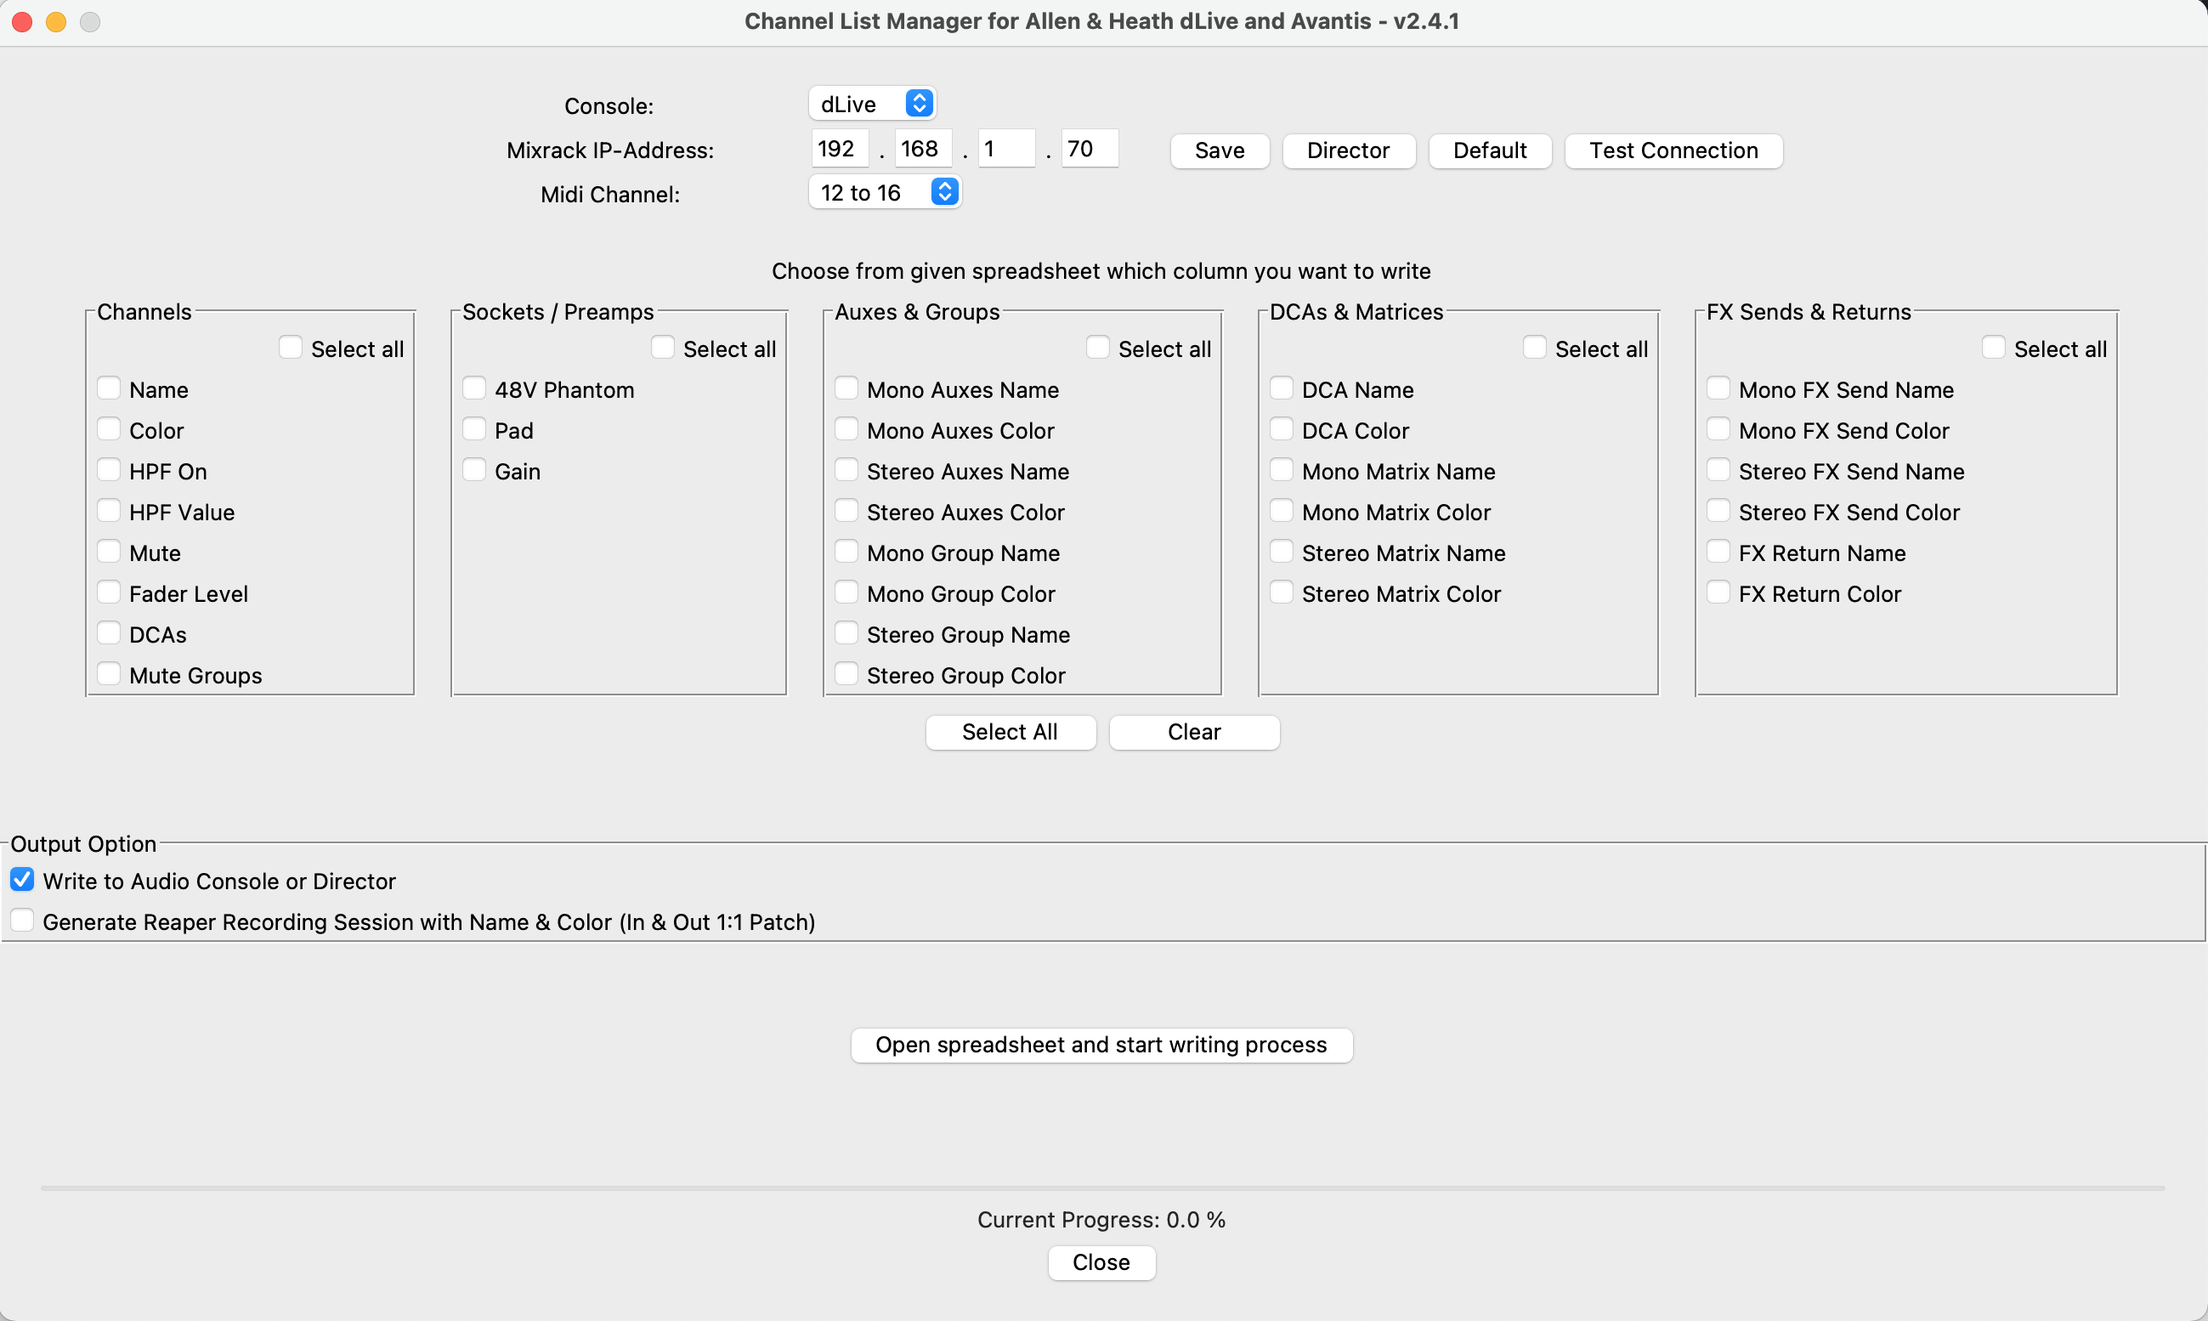
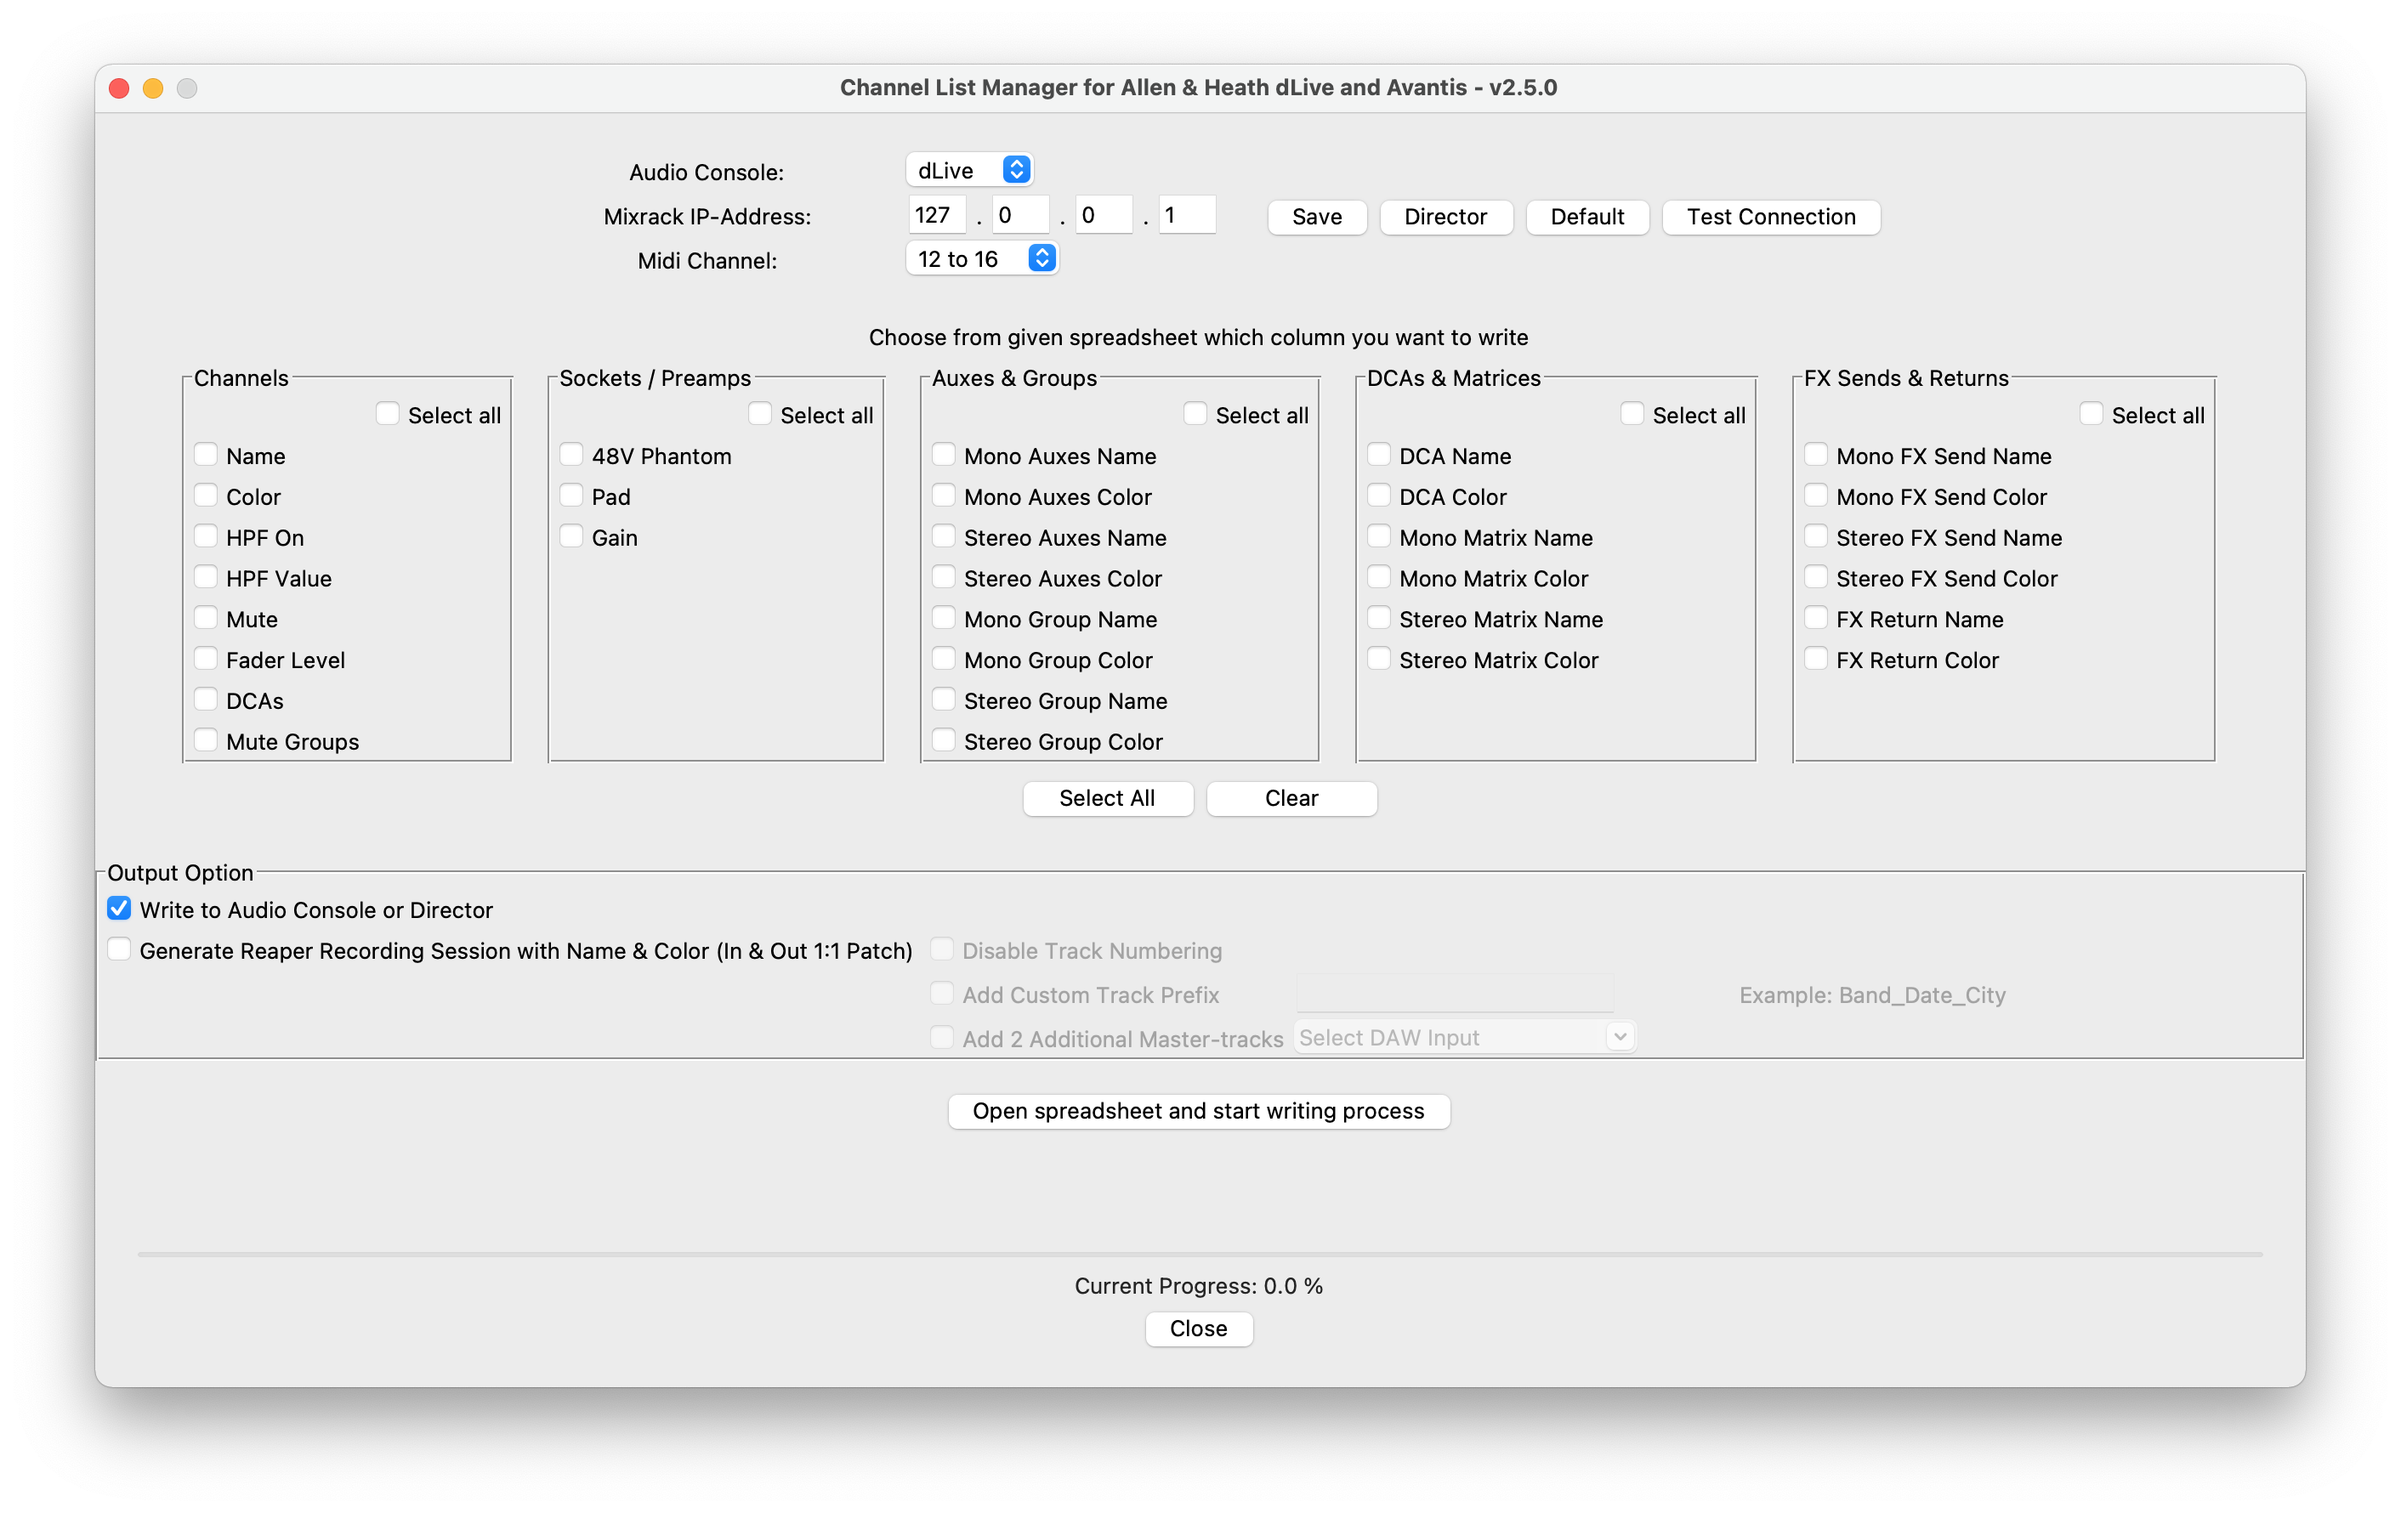
doc updated

diff --git a/README.md b/README.md
@@ -45,6 +45,7 @@ By using this software, you acknowledge and agree that you do so at your own ris
 * xlrd
 * odfpy
 * openpyxl
+* numpy
 * pyinstaller - Binary creator
 
 see [3rd Party Licenses](ThirdParty-Licenses.txt)
@@ -175,14 +176,17 @@ Afterwards the following window appears.
    `Clear` removes all ticks.
 
 
-8. If you also want to create a Reaper template session, set the corresponding tick. The Reaper session file `<input-spread-sheet-file>-recording-template.rpp` 
-   will be generated into the directory from where the spreadsheet has been chosen. In the `Channels` Tab, you can configure, which channel shall be recorded, and "record armed". The patching is 1:1 (derived from the channel number) <br><br>
-   You can also use the tool to create only the Reaper session file, in case you use a different audio console. In this case use the following settings (1+2) and continue with Step 9 (3).<br><br>
+8. If you also want to create a Reaper session template, set the corresponding tick. The Reaper session file `<input-spreadsheet-file>-recording-template.rpp` 
+   will be generated into the directory from where the spreadsheet has been chosen. In the `Channels` tab, you can configure which channel shall be recorded and "record armed". The patching is 1:1 (derived from the channel number) <br><br>
    
-   The default track numbering can also be disabled.
-   
+   The following Reaper based options are available: <br>
+   * Track numbering can also be disabled.<br>
+   * An additional custom track prefix can also be added.<br>
+   * Add two additional mono busses to record your mixing sum.
 
-<img alt="onlyreapter" src="doc/reaper_only.png" width="500"/>
+   You can also use the tool to create only the Reaper session file, in case you use a different audio console. In this case use the following settings (1+2) and continue with Step 9 (3).<br><br>
+
+<img alt="onlyreaper" src="doc/reaper_only.png" width="700"/>
 
 9. Click the button `Open spreadsheet and start writing process` to select the spreadsheet. Afterwards the selected action(s) start automatically.
    
@@ -201,9 +205,10 @@ Have fun!
 Feature & Maintenance Release
 
 #### New Features
-- "Don´t care" feature for sockets sheet added
-- "Don´t care" feature for channels sheet added
-- Possibility to disable default track numbering 
+- Bypass feature for sockets and channels sheet added
+- Possibility to disable track numbering
+- Possibility to add two additional master-tracks
+- Possibility to add a custom track prefix
 
 #### Improvements
 - Gain value mapping improved - gain values are now more accurate.
